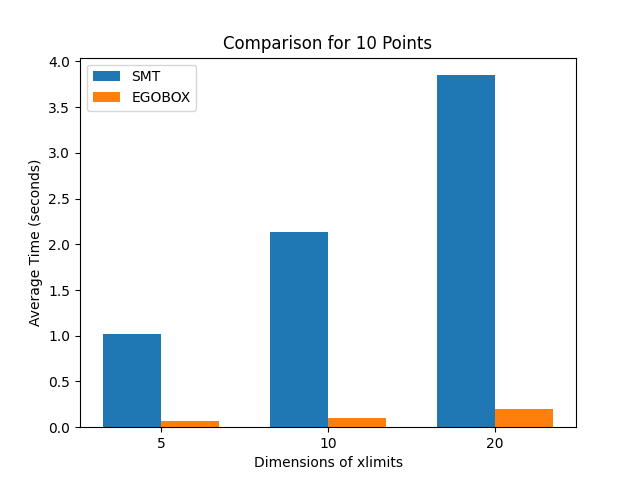
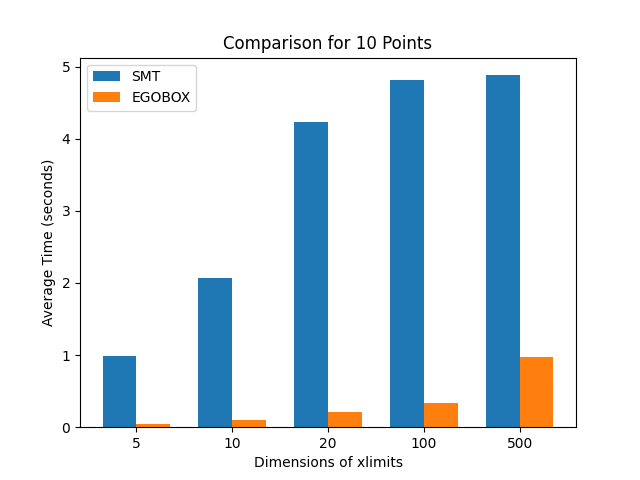
final results

diff --git a/bench.py b/bench.py
@@ -4,8 +4,9 @@ import numpy as np
 import timeit
 import csv
 
-DIMENSIONS = [5, 10, 20]  # , 100]
-NB_POINTS = [10, 13, 15]
+DIMENSIONS = [5, 10, 20, 100, 500]
+# NB_POINTS = [10, 13, 15]
+NB_POINTS = [10, 50, 100, 250, 500, 1000]
 NB_ITER = 5
 LIBRARIES = ["SMT", "EGOBOX"]
 
@@ -57,4 +58,4 @@ def write_to_csv(csv_filename, result):
 
 
 if __name__ == "__main__":
-    write_to_csv("results_benchmark2.csv", run_benchmark())
+    write_to_csv("results_benchmark.csv", run_benchmark())

diff --git a/diagram_generator.py b/diagram_generator.py
@@ -3,9 +3,9 @@ import matplotlib.pyplot as plt
 import numpy as np
 
 data = {"SMT": {}, "EGOBOX": {}}
-# NB_POINTS = [10, 50, 100, 250, 500, 1000]
-NB_POINTS = [10, 13, 15]
-CSV_FILENAME = "results_benchmark2.csv"
+NB_POINTS = [10, 50, 100, 250, 500, 1000]
+# NB_POINTS = [10, 13, 15]
+CSV_FILENAME = "results_benchmark.csv"
 
 
 def sort_dimensions():
